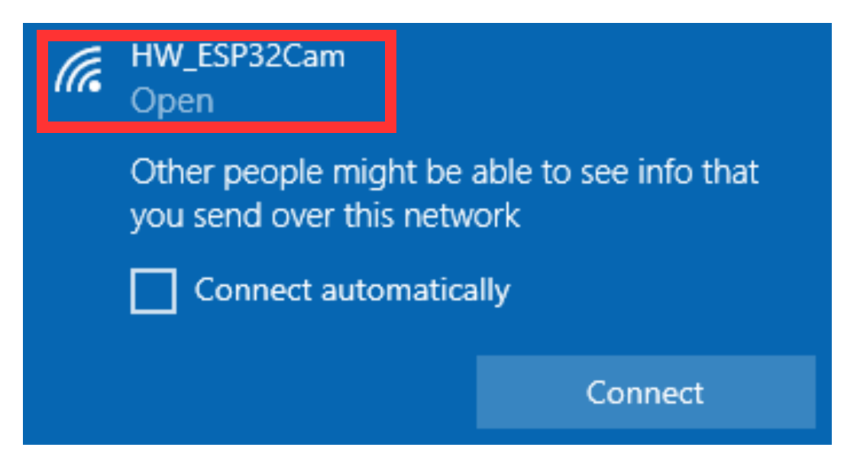
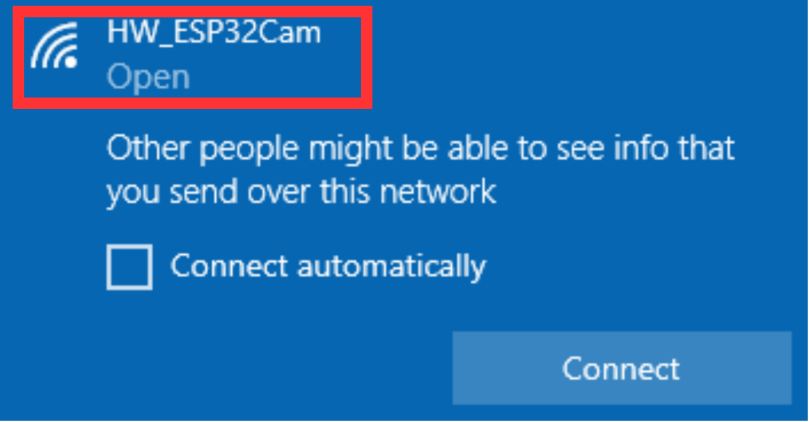
uHand UNO 2

diff --git a/source/docs/8.ai_vision_game_course.md b/source/docs/8.ai_vision_game_course.md
@@ -429,7 +429,7 @@ Align the pins of ESP32S3-Cam with the pin headers on the camera expansion board
 
 <img class="common_img" src="../_static/media/chapter_8/section_5/media/image9.png"  />
 
-<img class="common_img" src="../_static/media/chapter_8/section_5/media/image10.png"  />
+<img class="common_img" src="../_static/media/chapter_8/section_5/media/image10.png" style="width:556px;" />
 
 <p id="anchor_8_5_3_2"></p>
 
@@ -453,7 +453,7 @@ Align the pins of ESP32S3-Cam with the pin headers on the camera expansion board
 
 <img class="common_img" src="../_static/media/chapter_8/section_5/media/image12.png" style="width:570px;" />
 
-<img class="common_img" src="../_static/media/chapter_8/section_5/media/image10.png"  />
+<img class="common_img" src="../_static/media/chapter_8/section_5/media/image10.png" style="width:570px;" />
 
 ### 8.5.4 Program Outcome
 
@@ -1500,7 +1500,7 @@ Align the pins of ESP32S3-Cam with the pin headers on the camera carrier board, 
 
 <img class="common_img" src="../_static/media/chapter_8/section_7/media/image9.png"  />
 
-<img class="common_img" src="../_static/media/chapter_8/section_7/media/image10.png"  />
+<img class="common_img" src="../_static/media/chapter_8/section_7/media/image10.png" style="width:556px;" />
 
 * **ESP32S3-Cam Firmware Burning**
 
@@ -1512,17 +1512,17 @@ Align the pins of ESP32S3-Cam with the pin headers on the camera carrier board, 
 
 (3) Select the **"ESP32S3 Dev Module"** development board.
 
-<img class="common_img" src="../_static/media/chapter_8/section_7/media/image12.png"  />
+<img class="common_img" src="../_static/media/chapter_8/section_7/media/image12.png" style="width:570px;" />
 
 (4) Click the **"Tool"** in the menu bar, and select the corresponding configuration for the ESP32S3 development board.
 
-<img class="common_img" src="../_static/media/chapter_8/section_7/media/image13.png"   />
+<img class="common_img" src="../_static/media/chapter_8/section_7/media/image13.png" style="width:570px;"  />
 
-(5) Click<img class="common_img" src="../_static/media/chapter_8/section_7/media/image8.png"  /> to download the program to the ESP32S3-Cam, and then wait for the download to complete.
+(5) Click <img src="../_static/media/chapter_8/section_7/media/image8.png"  /> to download the program to the ESP32S3-Cam, and then wait for the download to complete.
 
-<img class="common_img" src="../_static/media/chapter_8/section_7/media/image12.png"  />
+<img class="common_img" src="../_static/media/chapter_8/section_7/media/image12.png" style="width:570px;" />
 
-<img class="common_img" src="../_static/media/chapter_8/section_7/media/image10.png"  />
+<img class="common_img" src="../_static/media/chapter_8/section_7/media/image10.png" style="width:570px;" />
 
 ### 8.7.4 Program Outcome
 
